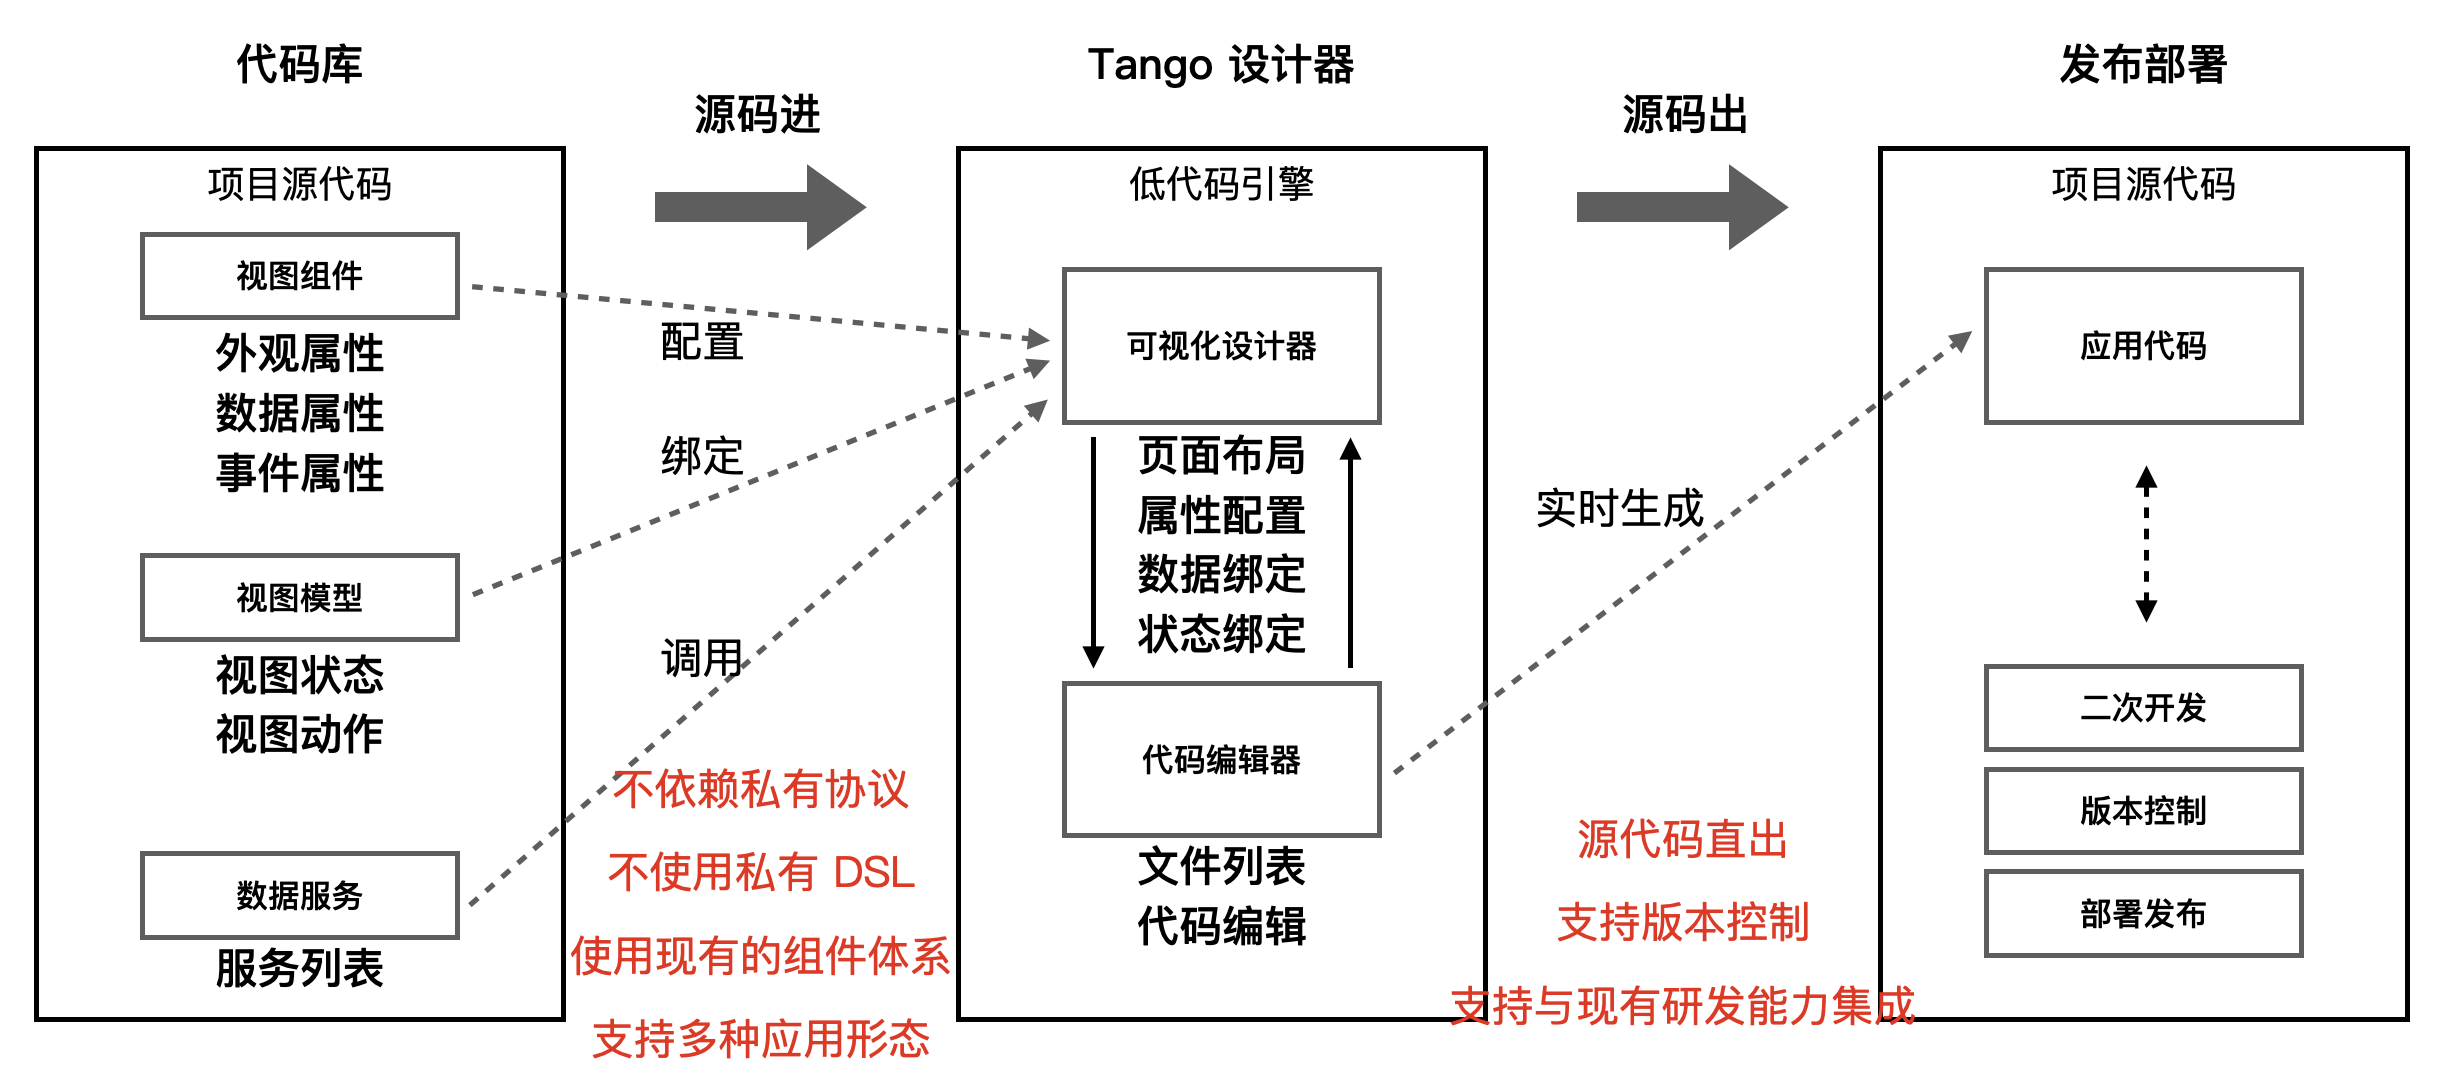
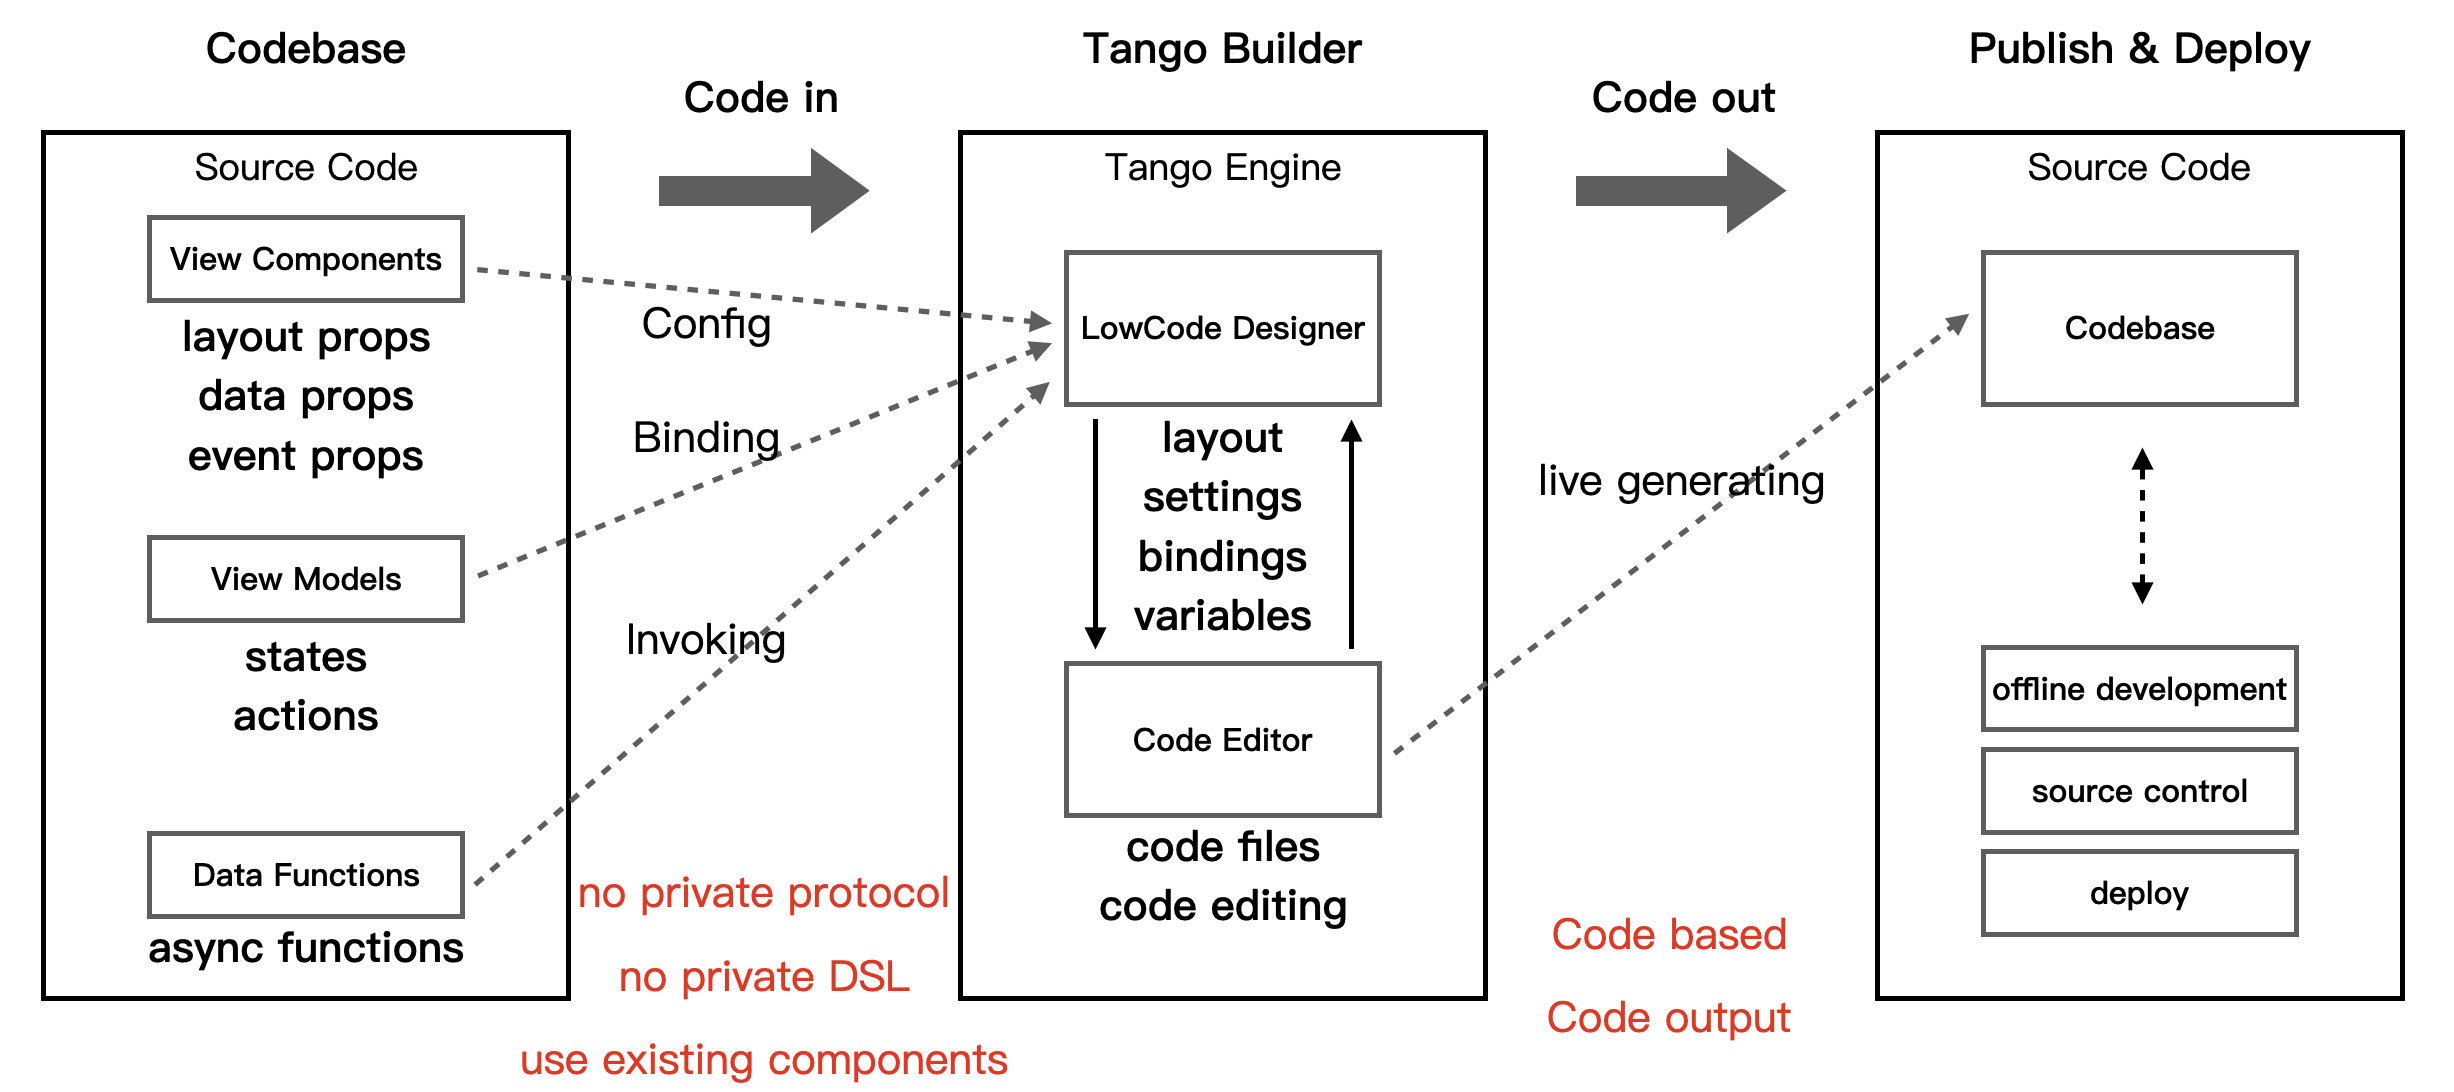
docs: update release blog

diff --git a/apps/website/i18n/en/docusaurus-plugin-content-blog/2023-08-30-welcome/index.md b/apps/website/i18n/en/docusaurus-plugin-content-blog/2023-08-30-welcome/index.md
@@ -6,7 +6,7 @@ tags: [netease, tango, open-source]
 
 ## 📝 Introduction
 
-Tango is a low-code designer framework for quickly building low-code platforms. With Tango, you only need a few lines of code to build a basic low-code platform frontend system. The Tango low-code designer directly reads the source code of the frontend project, executes and renders the frontend view based on the source code, and provides users with low-code visual building capabilities. User's building operations will be translated into modifications to the source code. With low-code tools or platforms built using Tango, it is possible to achieve the effect of "source code in, source code out" and seamlessly integrate with the existing R&D system within the enterprise.
+Tango is a low-code builder framework for quickly building low-code platforms or tools. With Tango, you only need a few lines of code to build a basic low-code builder. The Tango low-code builder reads the source code of the frontend project directly, executes and renders the frontend view based on the source code, and provides users with low-code visual building capabilities. User's building operations will be translated into modifications to the source code. With low-code tools or platforms built using Tango, it is possible to achieve the effect of "source code in, source code out" and seamlessly integrate with the existing development flow within the enterprise.
 
 ### ✨ Features
 
@@ -20,11 +20,11 @@ Tango is a low-code designer framework for quickly building low-code platforms. 
 
 Due to the fact that the engine kernel is completely based on the source code-driven implementation, Tango low-code engine can achieve the visualization building capability of source code input and source code output, without providing any private intermediate products. If the company already has a complete R&D system (code hosting, building, deployment, CDN), Tango low-code engine can be directly used to integrate with existing services to build a low-code development platform.
 
-<img src="https://p5.music.126.net/obj/wonDlsKUwrLClGjCm8Kx/13140534982/ee2e/f42c/cc9a/184e2918a011b57d46e6c64a2722fa44.png" />
+![engine flow](./engine-flow.png)
 
 ### 📄 Code in, Code out
 
-由于引擎内核完全基于源代码驱动实现，Tango 低代码引擎能够实现源代码进，源代码出的可视化搭建能力，不提供任何私有的中间产物。如果公司内部已经有了一套完善的研发体系（代码托管、构建、部署、CDN），那么可以直接使用 Tango 低代码引擎与现有的服务集成构建低代码开发平台。
+Due to the engine kernel being completely driven by source code, the Tango low-code engine can achieve the visual construction capability of source code in and source code out, without providing any private intermediate products. If the company already has a complete development system (code hosting, building, deployment, CDN), then it can directly use the Tango low-code engine to integrate with existing services to build a low-code development platform.
 
 ![code in, code out](./codein-codeout.png)
 
@@ -32,23 +32,24 @@ Due to the fact that the engine kernel is completely based on the source code-dr
 
 Compared to the low-code building solution based on private schema, Tango low-code engine has the following advantages:
 
-| Comparison Items | Schema-base low-code solution | Tango (Code-based) |
-| ---------------- | ----------------------------------------- | ------------------------------------------- |
-| Applicable Scenarios | Targeted vertical building scenarios, such as forms, marketing pages, etc. | 🔥 Applicable to application building scenarios centered on source code |
-| Language Capabilities | Relies on private protocols for extension, inflexible, and difficult to align with programming language capabilities | 🔥 Based directly on JavaScript language, can use all language features, no extensibility issues |
-| Development Capability | LowCode | 🔥 LowCode + ProCode |
-| Source Code Export | Centered on schema, one-way code output, irreversible | 🔥 Source code-centered, two-way transcoding |
-| Custom Dependencies | Need to be encapsulated according to private protocol extension, high customization cost | 🔥 Existing components can be seamlessly and low-cost integrated |
-| Integrated R&D Facilities | High customization cost, additional customization required | 🔥 Low-cost integration, can directly reuse existing deployment and publishing capabilities |
+| Comparison Items          | Schema-base low-code solution                                                                                        | Tango (Code-based)                                                                               |
+| ------------------------- | -------------------------------------------------------------------------------------------------------------------- | ------------------------------------------------------------------------------------------------ |
+| Applicable Scenarios      | Targeted vertical building scenarios, such as forms, marketing pages, etc.                                           | 🔥 Applicable to application building scenarios centered on source code                          |
+| Language Capabilities     | Relies on private protocols for extension, inflexible, and difficult to align with programming language capabilities | 🔥 Based directly on JavaScript language, can use all language features, no extensibility issues |
+| Development Capability    | LowCode                                                                                                              | 🔥 LowCode + ProCode                                                                             |
+| Source Code Export        | Centered on schema, one-way code output, irreversible                                                                | 🔥 Source code-centered, two-way transcoding                                                     |
+| Custom Dependencies       | Need to be encapsulated according to private protocol extension, high customization cost                             | 🔥 Existing components can be seamlessly and low-cost integrated                                 |
+| Integrated R&D Facilities | High customization cost, additional customization required                                                           | 🔥 Low-cost integration, can directly reuse existing deployment and publishing capabilities      |
 
 The specific technical architecture is shown in the following figure:
+
 ## 📐 Architecture
 
 The Tango low-code engine has been layered and decoupled in implementation, enabling independent development and maintenance of the upper-level low-code platform and the lower-level low-code engine, allowing for fast integration and deployment. In addition, Tango's low-code engine defines an open material ecosystem, allowing developers to freely contribute to extension components and configure property setters that enhance low-code materials.
 
 The specific technical architecture is shown in the following diagram.
 
-![low-code engine](./lowocode-engine.png)
+![low-code engine](./engine-components.png)
 
 ## ⏰ Milestones
 
@@ -58,6 +59,7 @@ Tango low-code engine is the core component of NetEase Cloud Music's internal lo
 2. We plan to release the 1.0 Beta version of the low-code engine on September 30th this year. This version will refactor the core implementation for community scenarios, remove some compatibility code we have internally in Cloud Music, and optimize the implementation of the core.
 3. We plan to release the 1.0 RC version of the low-code engine on October 30th this year. This version will ensure that the core API is basically stable and no longer has BREAKING CHANGE. At the same time, we will provide comprehensive and detailed development guides, deployment documents, and demonstration applications.
 4. The official version will be released before the end of Q4 2023, and we will further improve our open source community operation mechanism.
+
 ![milestones](./tango-milestones.png)
 
 ## 🤝 Community
@@ -74,3 +76,5 @@ Welcome everyone to join our community and participate in the open source constr
 Thanks to the Netease Cloud Music Public Technical Team, the Front-End Team, the Live Broadcasting Technical Team, and all the colleagues who participated in the Tango project.
 
 Thanks to the Sandpack project provided by CodeSandbox, which provides powerful browser-based code building and execution capabilities for Tango.
+
+Tanks to the Babel project, which provides powerful javascript ast parsing and traversing capabilities for Tango.
